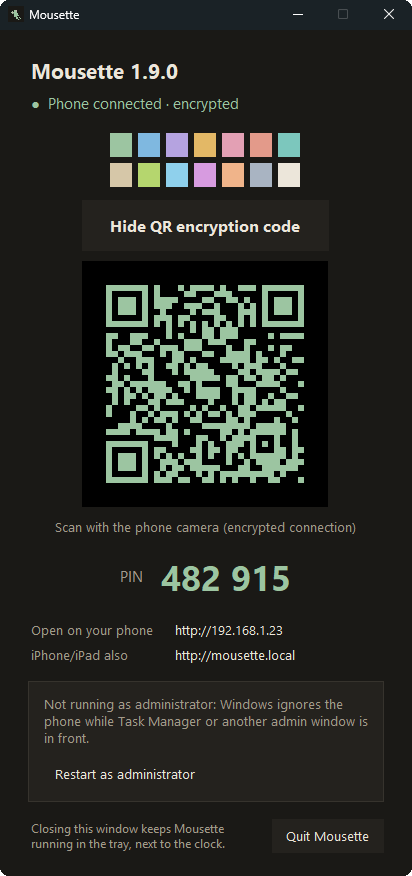
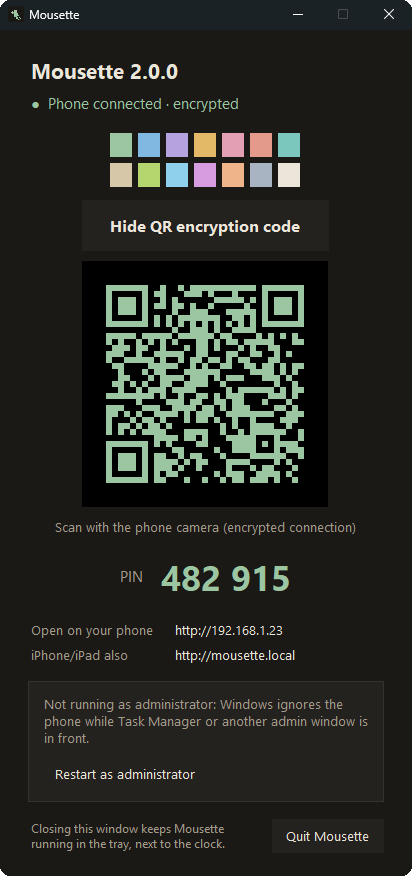
README: remove the comparison table, 2.0.0 window picture, list qr.py; remove the unused settings screenshot

Changed region(s): [[0.2621, 0.3082, 0.7573, 0.5548], [0.3204, 0.0616, 0.3786, 0.0925]]

diff --git a/README.md b/README.md
@@ -131,19 +131,6 @@ A program that controls your mouse and keyboard has to be one you can trust. Man
 - **PIN protected:** a new random PIN on every start, and devices that guess wrong get locked out (see [Security](#security)).
 - **No phone app:** it runs in the phone's browser, so there's nothing to install from an app store.
 
-### How it compares
-
-| | **Mousette** | Remote Mouse | KDE Connect | CmdPalm |
-|---|---|---|---|---|
-| On the phone | Browser, no app | App from the app store | App from the app store | Browser, no app |
-| On the computer | Windows | Windows, Mac | Linux, Windows, Mac | Mac only |
-| Open source | Yes (AGPL) | No | Yes (GPL) | Yes (AGPL) |
-| Price | Free | Free, with paid extras | Free | Free |
-| Your own buttons | Yes (Deck) | Yes | Run commands | Yes |
-| Account needed | No | No | No | No |
-
-<sub>From each project's own pages, October 2026. Something changed? [Tell us](https://github.com/Dizyy/Mousette/discussions).</sub>
-
 ## Features
 
 - **Quick to connect:** scan the QR code in the Mousette window with the phone camera.
@@ -179,6 +166,7 @@ The phone and the PC must be on the **same home network** (the PC can be on Wi-F
   - `clipboard.py`: puts text from the phone on the PC clipboard
   - `deck.py`: saves the phone's own Deck buttons on the PC (`deck.json` next to the encryption key)
   - `encryption.py`: the encryption key and encrypted connections (PyNaCl)
+  - `qr.py`: draws the QR code as text for the console window
 - `client/`: the web page for the phone (plain HTML/CSS/JS, no build step); `client/vendor/` holds [tweetnacl.js](https://github.com/dchest/tweetnacl-js) 1.0.3 (public domain) for encryption
 - `PROTOCOL.md`: the messages the phone and the server exchange
 - `tests/`: automated tests
